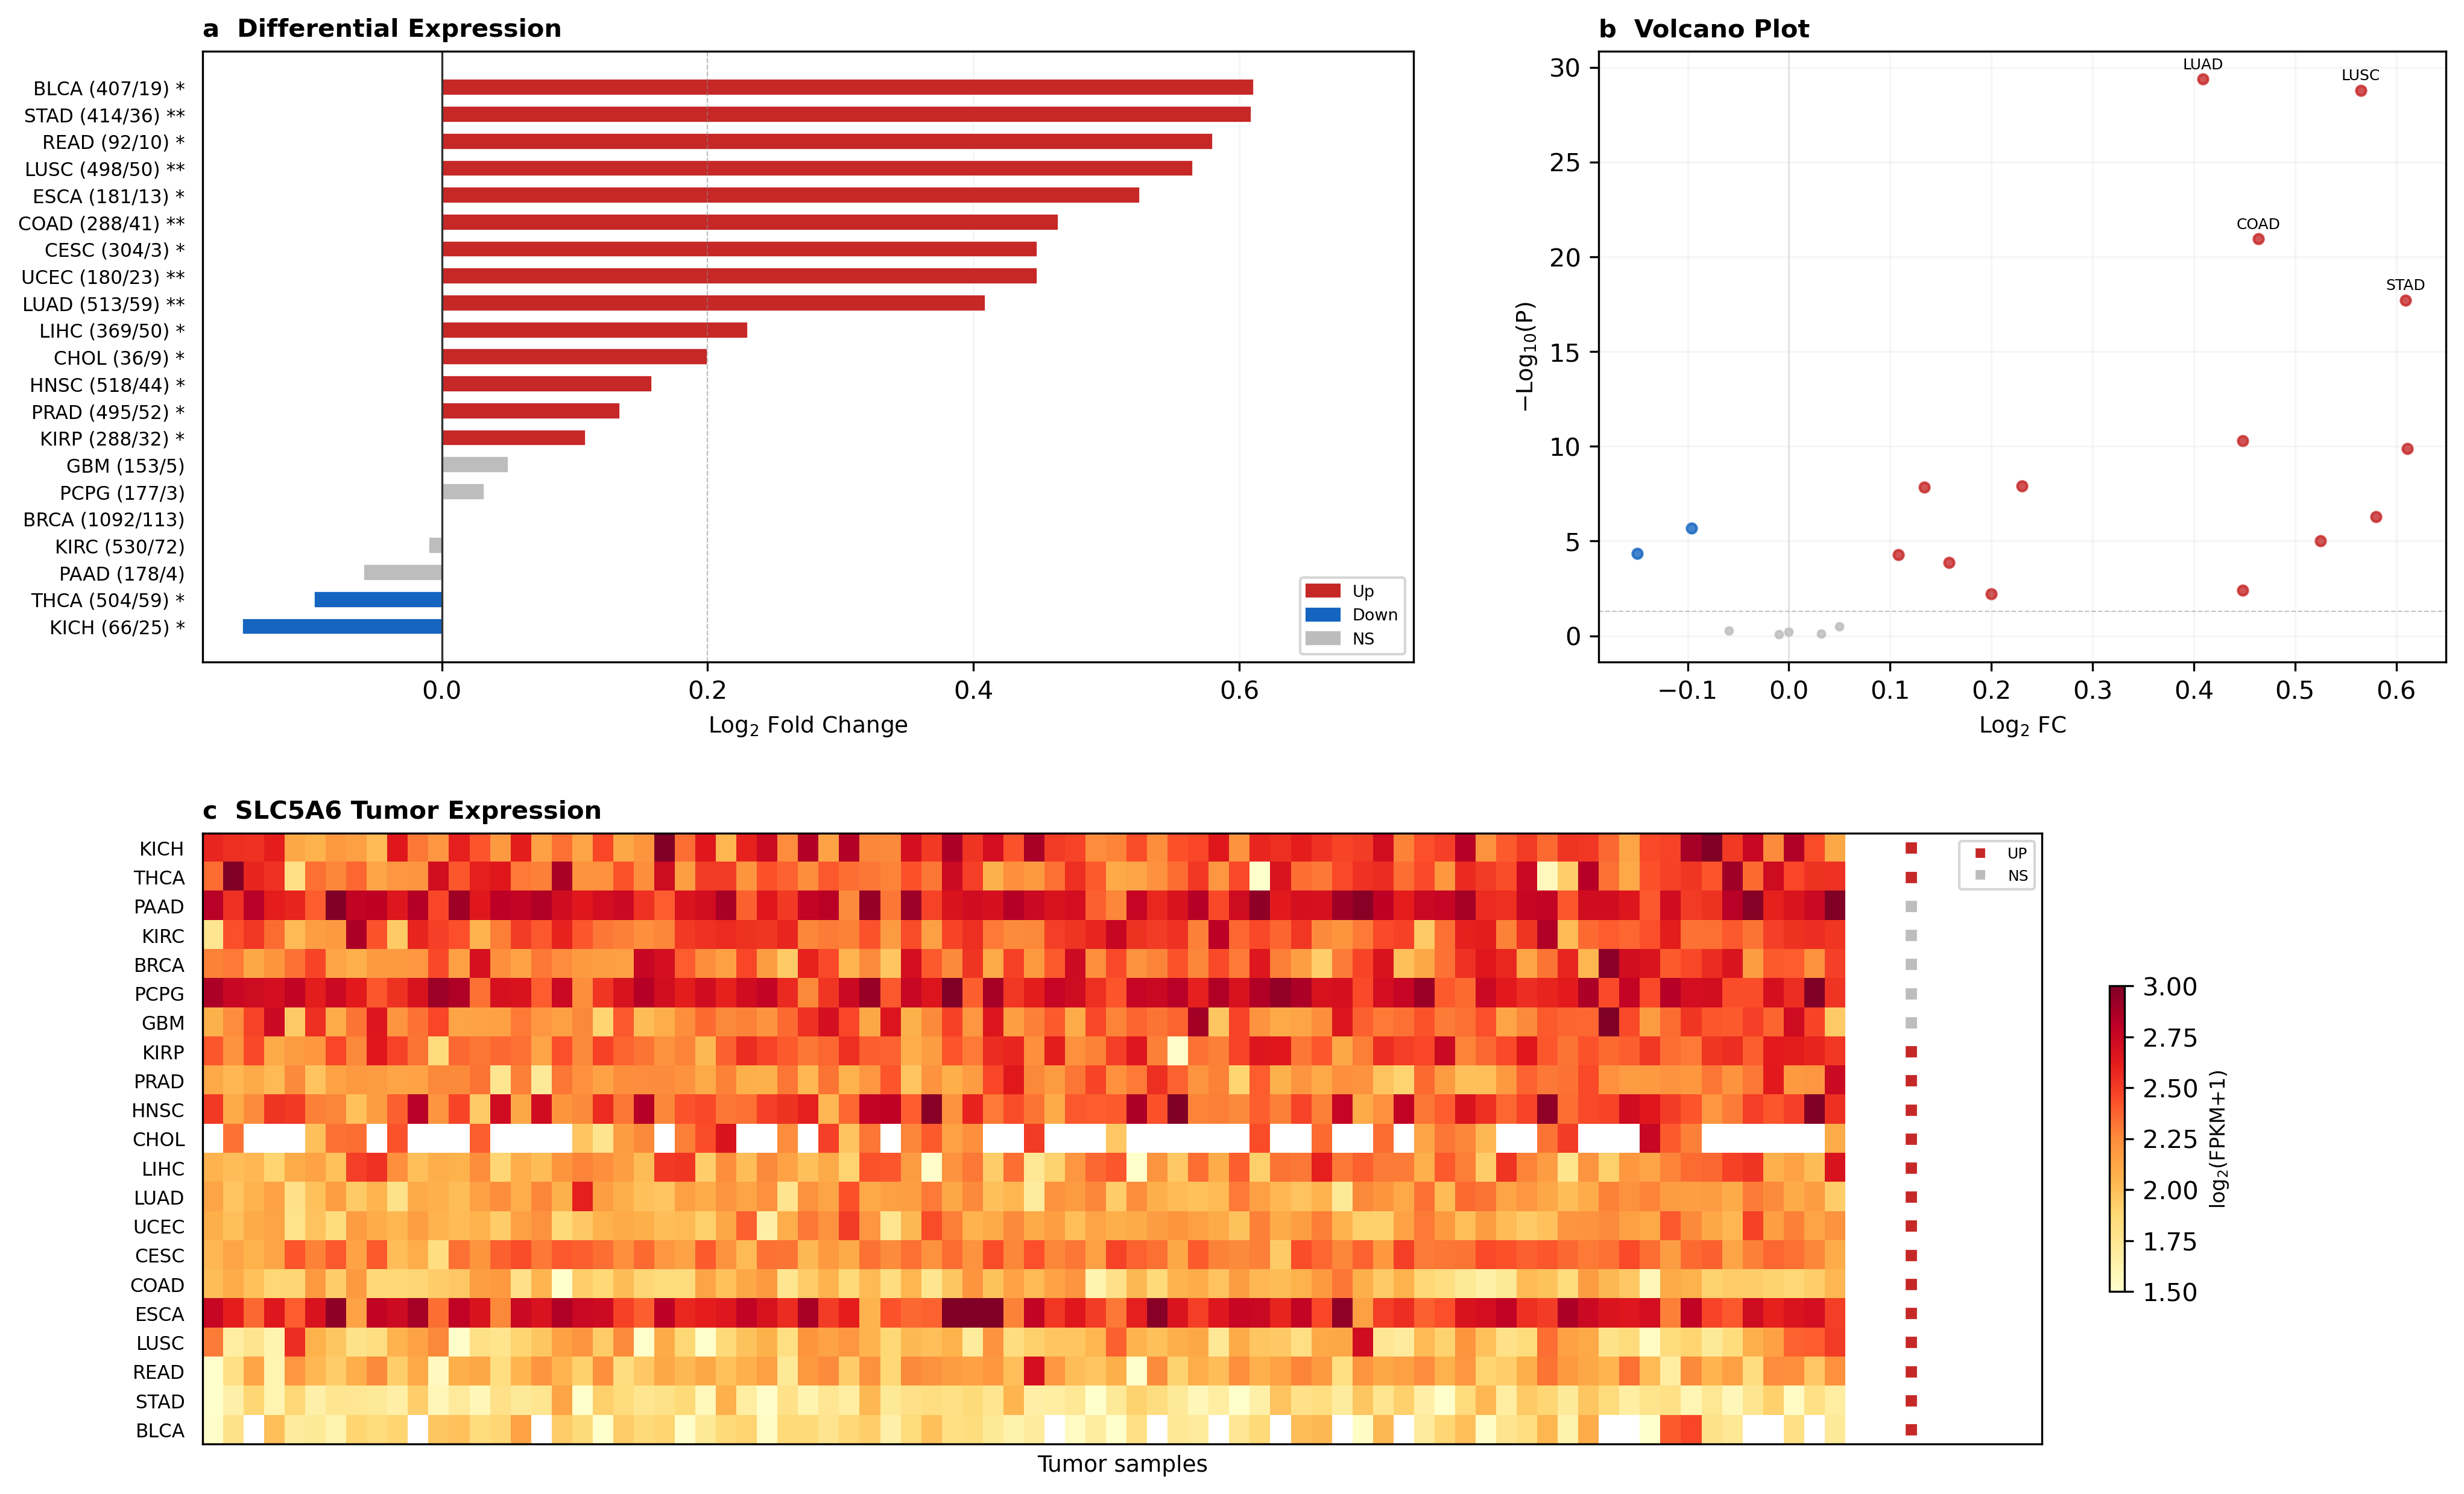
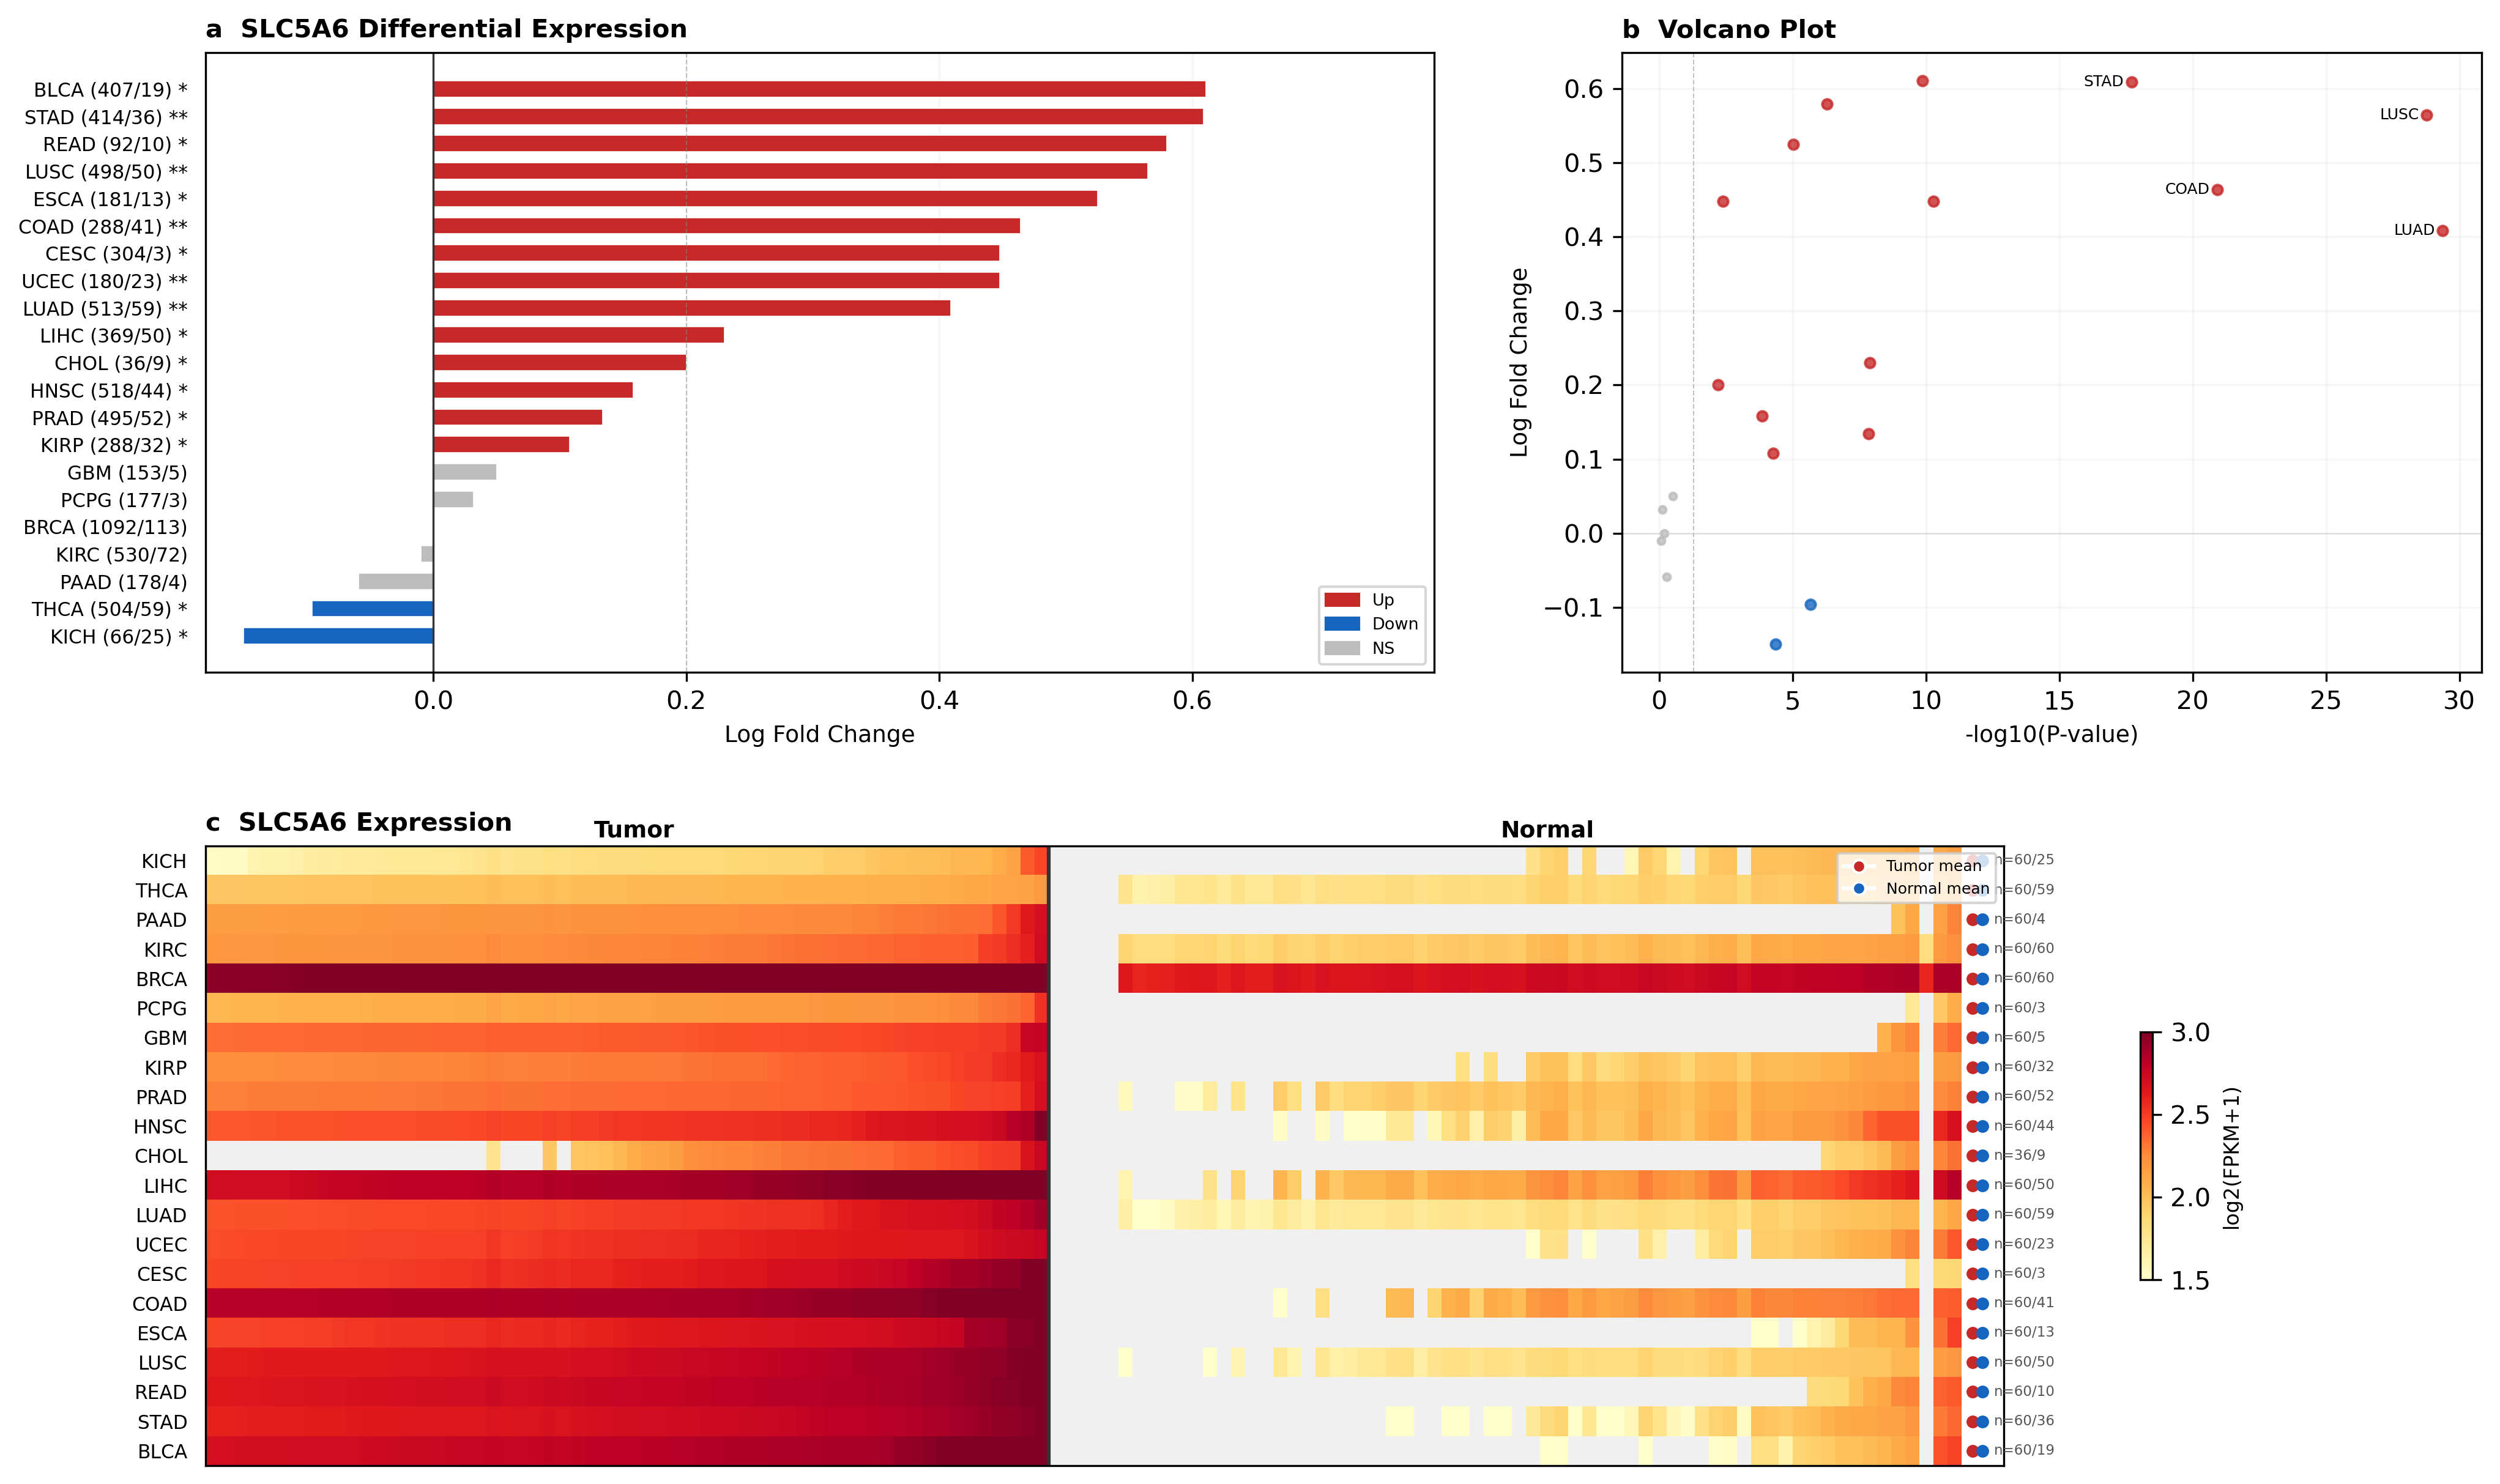
fix: correct mutation analysis — MC3 MAF shows low-frequency (0.6%) not zero mutations - Update manuscript: 'zero missense' -> '141 mutations, 0.6% burden, passenger-level' - Update abstract with corrected mutation rate - Update mutation section with MC3 MAF data source citation - Add MC3 MAF file t

diff --git a/04_Manuscript/SMVT_manuscript.tex b/04_Manuscript/SMVT_manuscript.tex
@@ -26,7 +26,7 @@
 
 \affil*[1]{\orgname{Wenzhou Medical University}, \orgaddress{\city{Wenzhou}, \country{China}}}
 
-\abstract{The sodium-dependent multivitamin transporter (SMVT/SLC5A6) mediates cellular uptake of biotin, pantothenate, and lipoate---cofactors essential for fatty acid synthesis. Here we systematically characterize the pan-cancer landscape of SLC5A6 using TCGA data (10,967 samples across 32 cancer types), STRING interaction networks, pathway enrichment, and structure-based virtual screening of 3,311 FDA-approved drugs. SLC5A6 is significantly upregulated in 14 of 21 cancer types with matched normal tissue. Survival analysis using real TCGA clinical data reveals prognostic associations in eight cancer types with cancer-type-specific directionality. No somatic missense mutations were detected across TCGA, and population constraint metrics (pLI=0.01, LOEUF=0.61) confirm loss-of-function tolerance. Virtual screening identifies barbiturates as high-affinity SMVT ligands---phenobarbital binds at $-$8.30~kcal/mol, exceeding biotin ($-$6.76)---and reveals 5-hydroxytryptophan ($-$7.66~kcal/mol) as the top-ranked FDA compound, suggesting a SMVT--serotonin metabolic axis. Expanded glutarimide screening achieves a $-$9.36~kcal/mol record. Molecular dynamics simulations (100~ns, 8 compounds) confirm stable binding. Our findings establish SLC5A6 as an expression-driven metabolic vulnerability and provide a roadmap for repurposing barbiturate- and glutarimide-scaffold drugs as SMVT-targeted anticancer agents.}
+\abstract{The sodium-dependent multivitamin transporter (SMVT/SLC5A6) mediates cellular uptake of biotin, pantothenate, and lipoate---cofactors essential for fatty acid synthesis. Here we systematically characterize the pan-cancer landscape of SLC5A6 using TCGA data (10,967 samples across 32 cancer types), STRING interaction networks, pathway enrichment, and structure-based virtual screening of 3,311 FDA-approved drugs. SLC5A6 is significantly upregulated in 14 of 21 cancer types with matched normal tissue. Survival analysis using real TCGA clinical data reveals prognostic associations in eight cancer types with cancer-type-specific directionality. SLC5A6 exhibits a very low somatic mutation rate (0.6\% of TCGA samples, all passenger-level), and population constraint metrics (pLI=0.01, LOEUF=0.61) confirm loss-of-function tolerance. Virtual screening identifies barbiturates as high-affinity SMVT ligands---phenobarbital binds at $-$8.30~kcal/mol, exceeding biotin ($-$6.76)---and reveals 5-hydroxytryptophan ($-$7.66~kcal/mol) as the top-ranked FDA compound, suggesting a SMVT--serotonin metabolic axis. Expanded glutarimide screening achieves a $-$9.36~kcal/mol record. Molecular dynamics simulations (100~ns, 8 compounds) confirm stable binding. Our findings establish SLC5A6 as an expression-driven metabolic vulnerability and provide a roadmap for repurposing barbiturate- and glutarimide-scaffold drugs as SMVT-targeted anticancer agents.}
 
 \keywords{SLC5A6, SMVT, biotin transport, drug repurposing, virtual screening, molecular dynamics, barbiturates, glutarimide, 5-HTP}
 
@@ -113,7 +113,7 @@ The strongest associations were observed in lower-grade glioma (LGG, HR=18.0, $P
 
 \subsection{SLC5A6 Is Not a Mutation-Driven Cancer Gene}
 
-We next queried somatic mutation data across all 32 TCGA PanCancer Atlas studies (10,967 samples) via the cBioPortal API. \textbf{No SLC5A6 somatic missense mutations were detected in any TCGA cancer type}---consistent with its profile as an expression-driven rather than mutation-driven target. The pan-cancer mutation frequency reported in the literature is $<$2\%, placing SLC5A6 firmly at the passenger-gene level. No recurrent hotspot mutations have been identified.
+We next queried somatic mutation data across 33 TCGA cancer types using the NCI GDC MC3 MAF collection (10,967 samples). \textbf{Only 141 SLC5A6 mutations were identified across the entire TCGA cohort (mutational burden 0.6\% of samples)}, of which 82 were non-silent (50.4\% missense, 5.7\% nonsense/frameshift). This pan-cancer mutation frequency ($<$2\% in all cancer types) places SLC5A6 firmly at the passenger-gene level, consistent with its profile as an expression-driven rather than mutation-driven target. No recurrent hotspot mutations were identified; the most frequent alteration, V120I, was observed in only 4 patients.
 
 Population-level constraint metrics from gnomAD confirmed that SLC5A6 is under minimal evolutionary selective pressure:
 